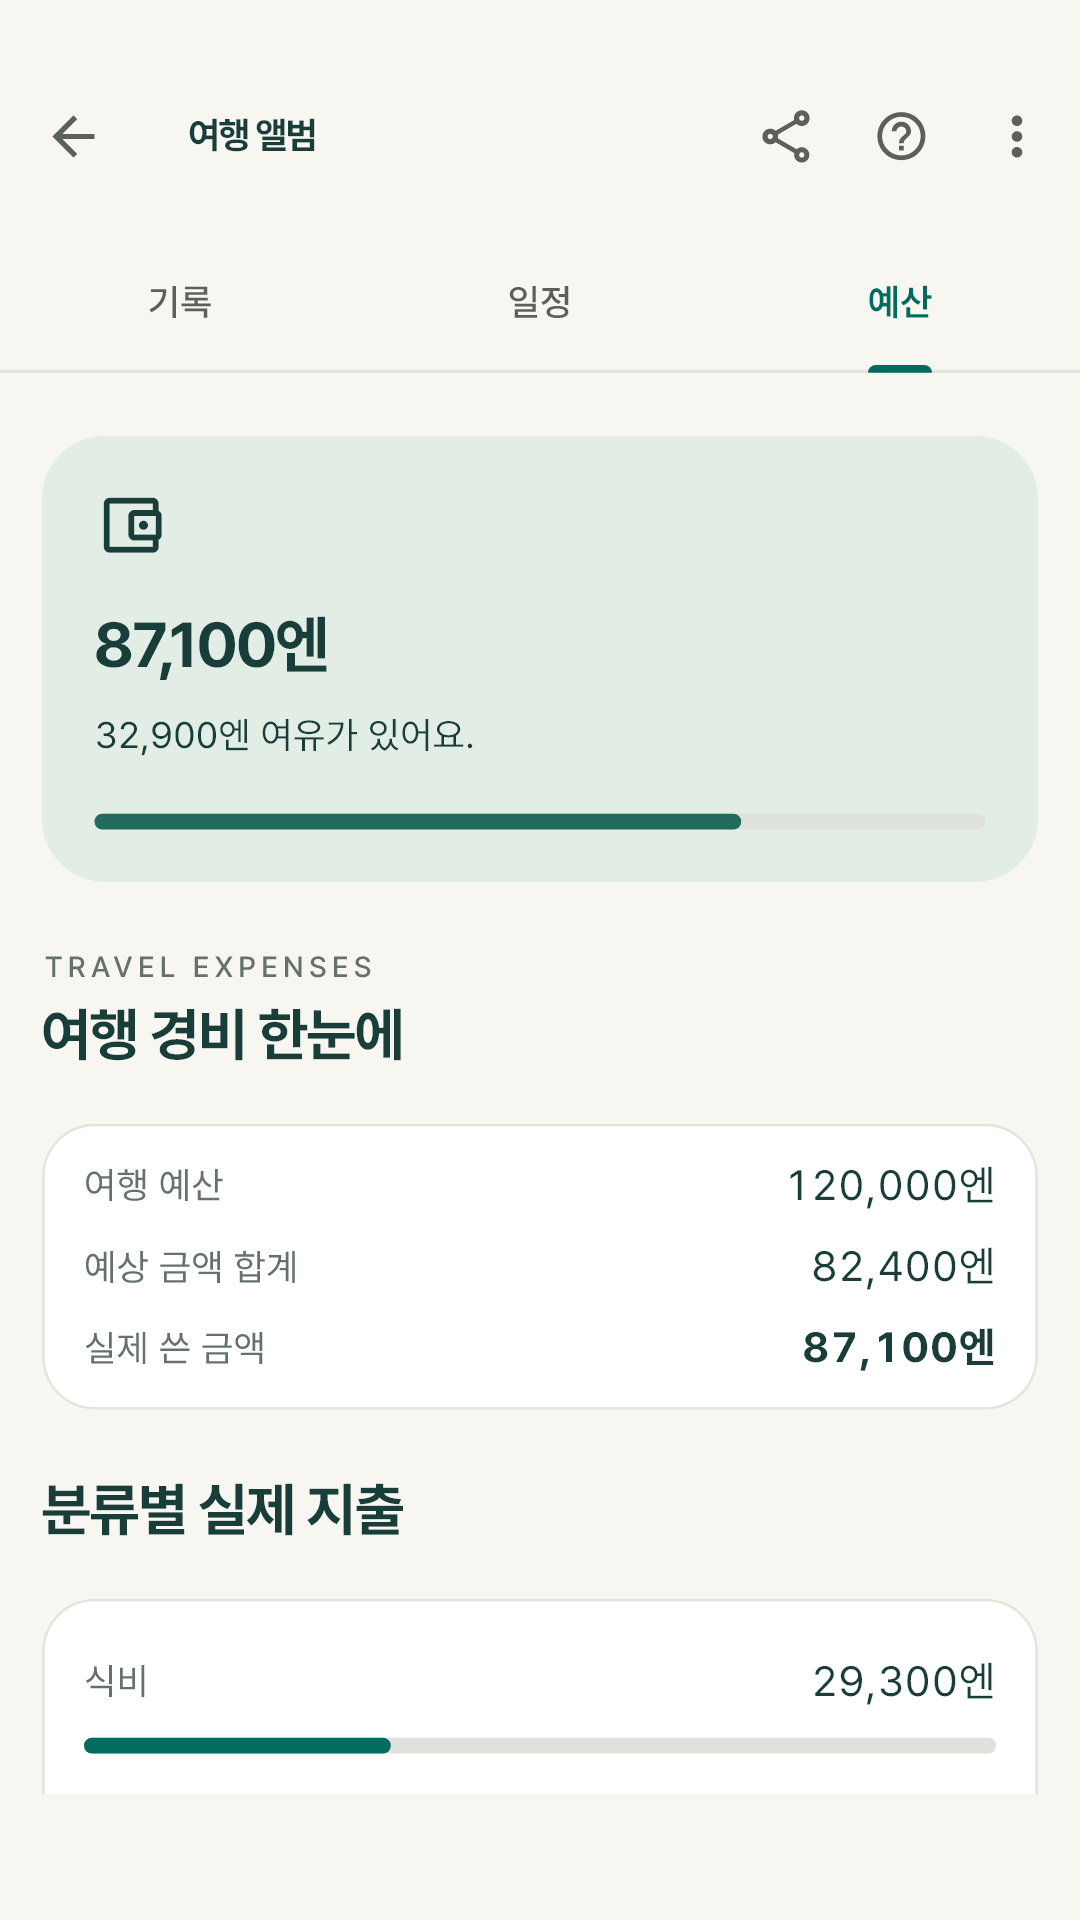
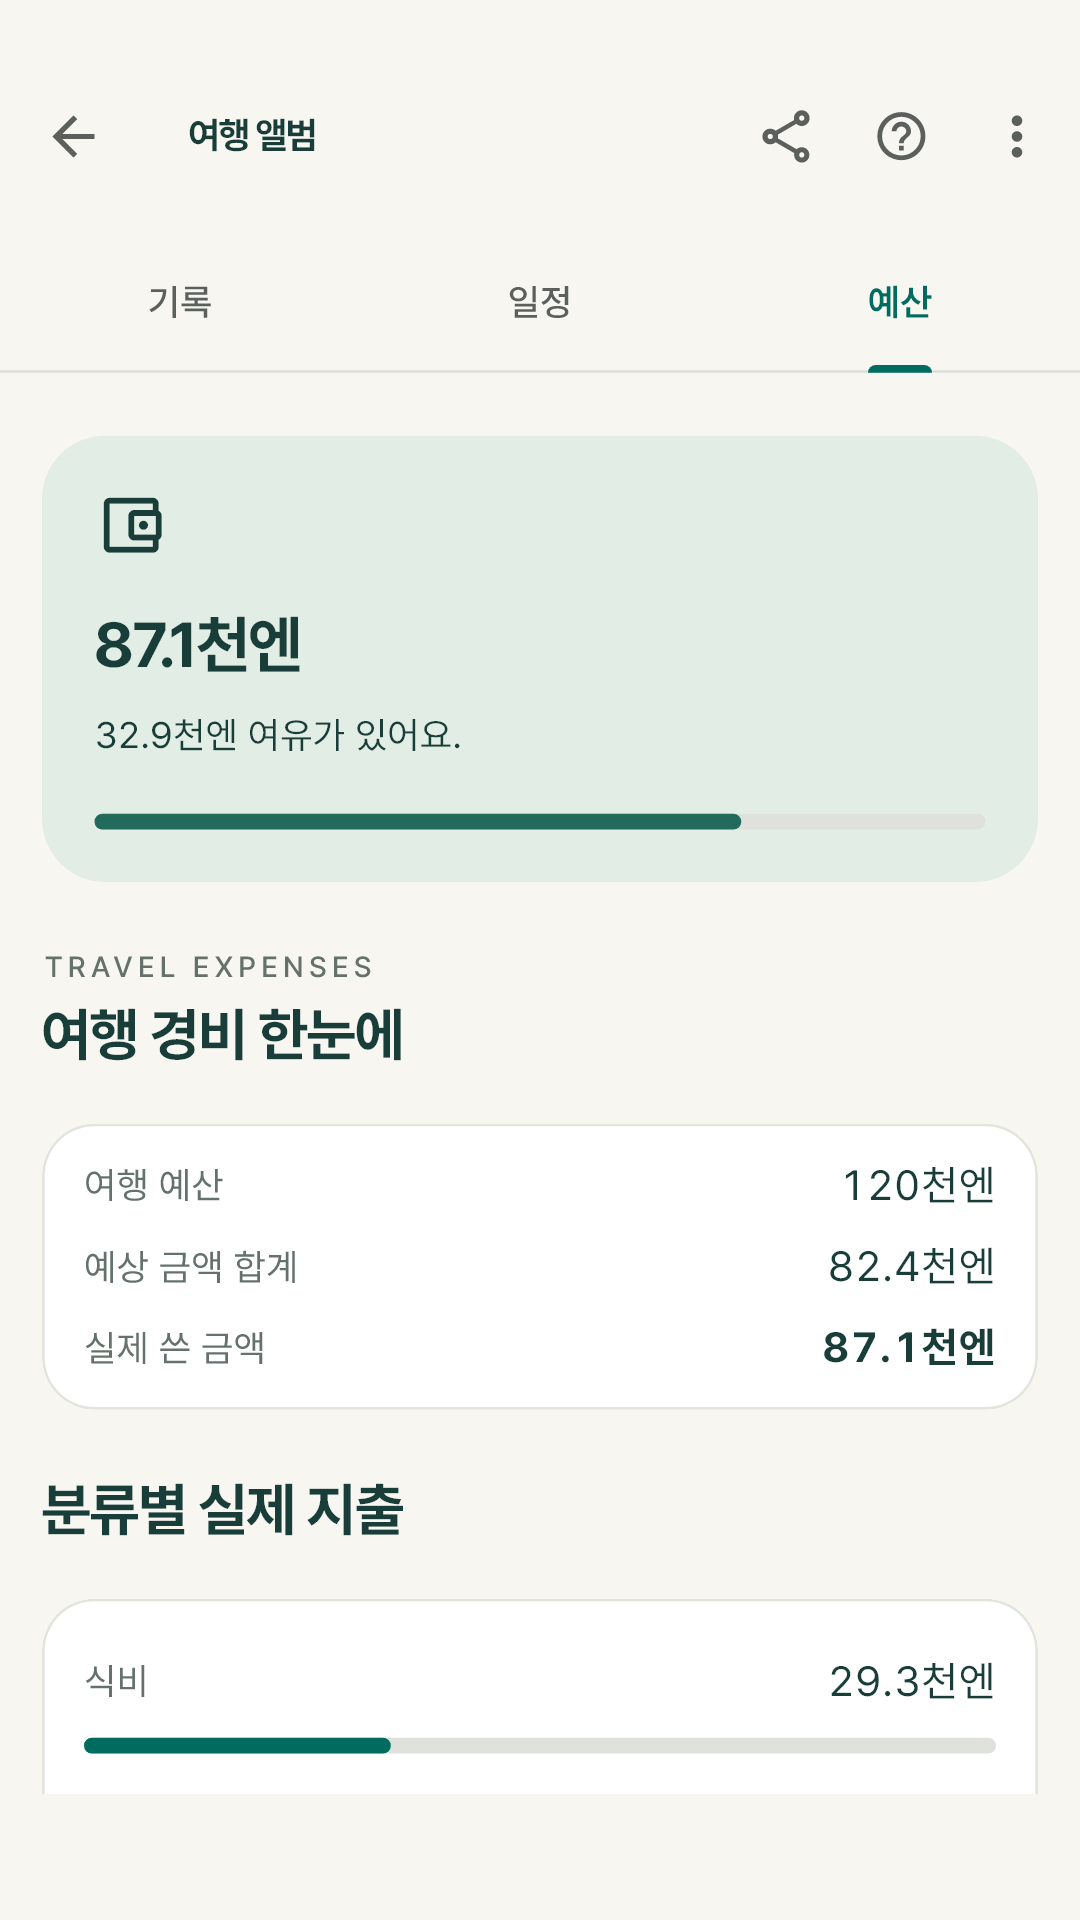
여행 기록: 금액 단위 설명 추가와 스크린샷 02·05 갱신(천원 단위 표시)

Changed region(s): [[0.1528, 0.3125, 0.4278, 0.4062], [0.7333, 0.5938, 0.8861, 0.7188], [0.7639, 0.8438, 0.8861, 0.9062]]

diff --git a/travel_log/index.html b/travel_log/index.html
@@ -91,7 +91,8 @@
     찾아요. "오사카 라멘"처럼 낱말을 여러 개 적어도 됩니다.</li>
   <li><strong>예산</strong> — 여행마다 통화를 하나 고르고(원·엔·달러 등 13가지) 그 단위 그대로
     적어요. 환산하지 않으니 인터넷이 필요 없습니다. 예산 대비 실제 지출을 막대로 보여주고,
-    분류별·날짜별 합계가 따라옵니다.</li>
+    분류별·날짜별 합계가 따라옵니다. 금액 칸에는 적는 대로 천 단위 쉼표가 붙고, 옵션에서
+    1원·천원·만원 단위를 골라 보고 적을 수 있어요(저장은 늘 1원 단위).</li>
   <li><strong>공유</strong> — 여행 전체로, 또는 "맛집만" 골라 글과 사진을 함께 보냅니다.
     일반 공유는 금액을 빼고, 앱 파일로 보내면 사진과 기록을 함께 담아 갑니다. 받는 쪽에서
     파일을 누르면 앱이 열려요.</li>
